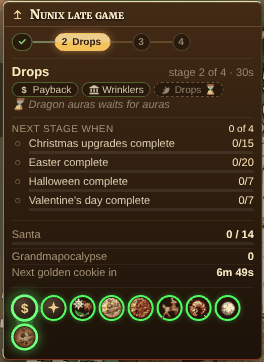
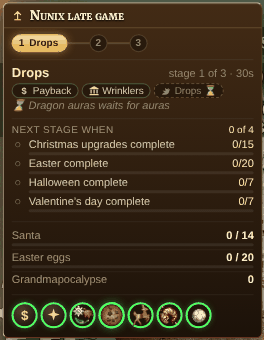
README: Nunix late game's three stages in the Managers shots (#65)
Retook docs/readme/managers.png and manager-widget.png with the three-stage Nunix late game; Managers bullet updated.

Claude-Session: https://claude.ai/code/session_01ALSqfrVYPdvMWWjAoC9JVy

diff --git a/README.md b/README.md
@@ -131,8 +131,8 @@ the page. [See every page with a screenshot](#pages).
 <tr>
 <td width="50%" valign="top">
 <b>Managers</b><br>
-<img src="docs/readme/managers.png" alt="The Managers page: a stage's tab with its macros, settings and profiles, and the macro library" width="100%">
-<ul><li>A manager plays an ascension in stages: stage 1 sets things up, each later stage changes only what it needs, and moves on when a condition holds</li><li>Nunix late game comes ready: Shimmering veil, season drops, reindeer, then golden cookie combos</li><li>The Manager widget shows the stage, what moves it on, the numbers it watches and the macros at work</li><li>Edit each stage in its own tab, with a library of macros to switch on or off beside it, or edit the code the stages write</li></ul>
+<img src="docs/readme/managers.png" alt="The Managers page: the Drops stage's tab with its macros, settings and profiles, and the macro library" width="100%">
+<ul><li>A manager plays an ascension in stages: stage 1 sets things up, each later stage changes only what it needs, and moves on when a condition holds</li><li>Nunix late game comes ready, in three stages: season drops, reindeer, then golden cookie combos</li><li>The Manager widget shows the stage, what moves it on, the numbers it watches and the macros at work</li><li>Edit each stage in its own tab, with a library of macros to switch on or off beside it, or edit the code the stages write</li></ul>
 <img src="docs/readme/manager-widget.png" alt="The Manager widget" width="50%">
 </td>
 <td width="50%" valign="top">

diff --git a/changes/readme-nunix-three-stages.md b/changes/readme-nunix-three-stages.md
@@ -1,0 +1,6 @@
+---
+bump: patch
+---
+
+- **README:** the Managers screenshot, the Manager widget picture and the Managers summary show Nunix late game's
+  three stages.
